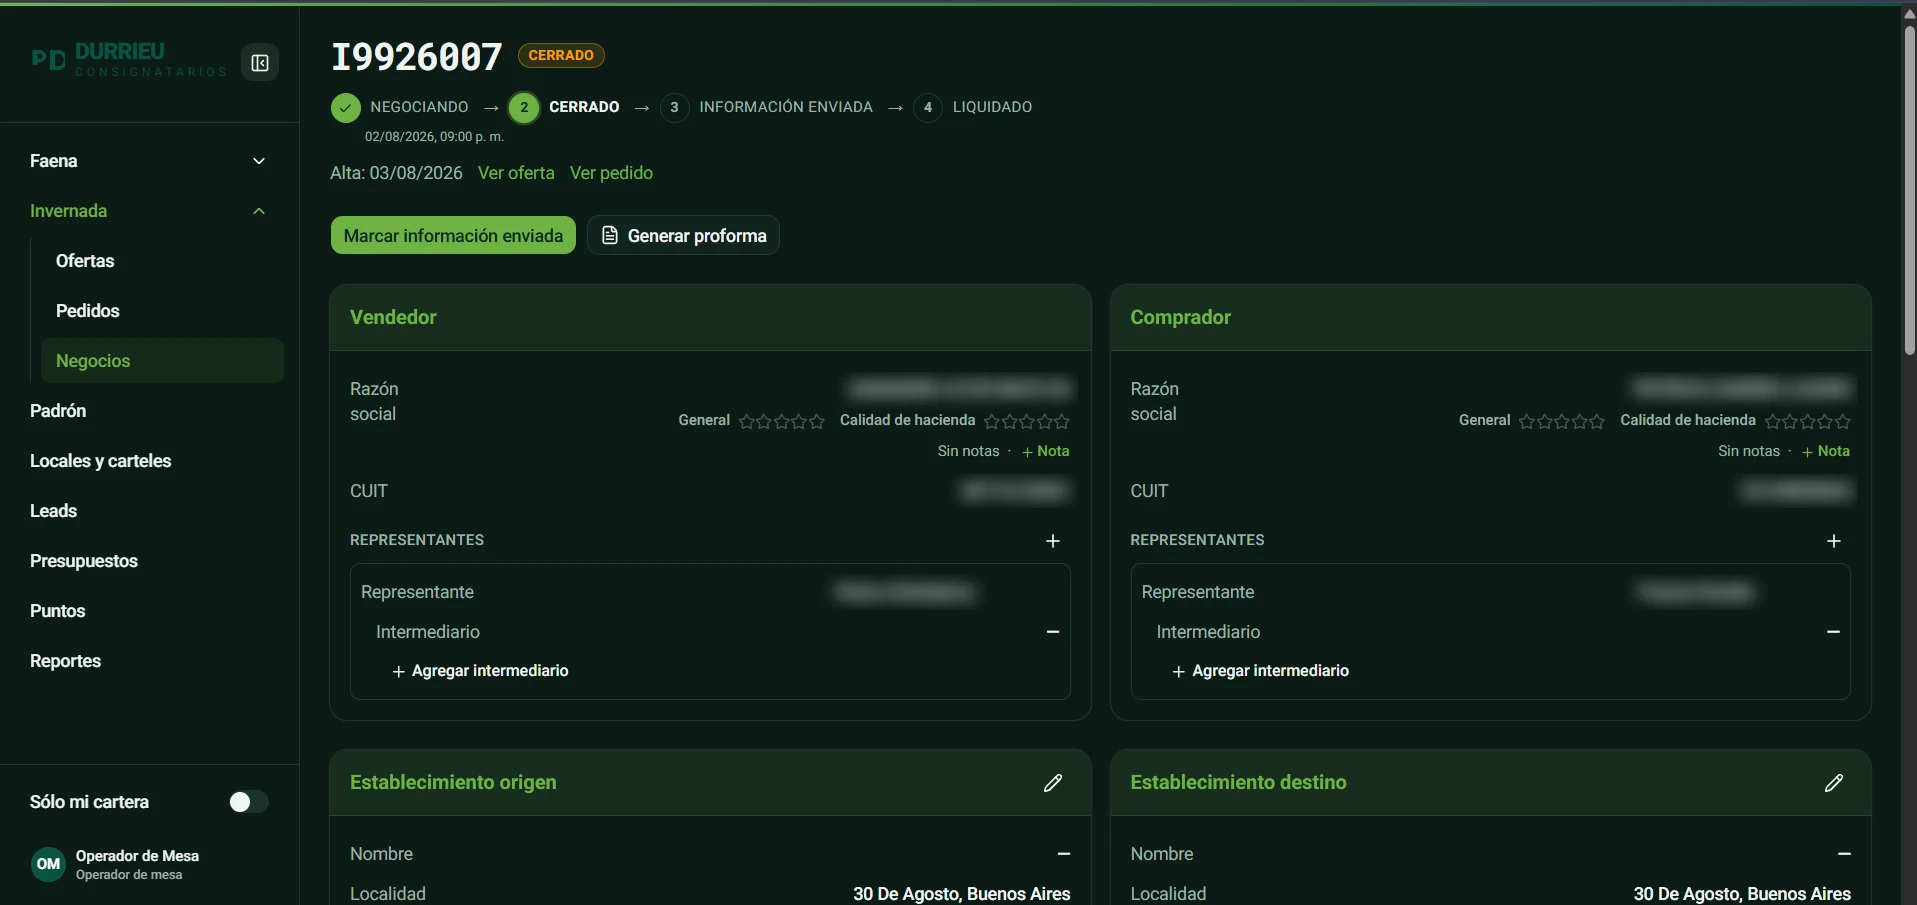
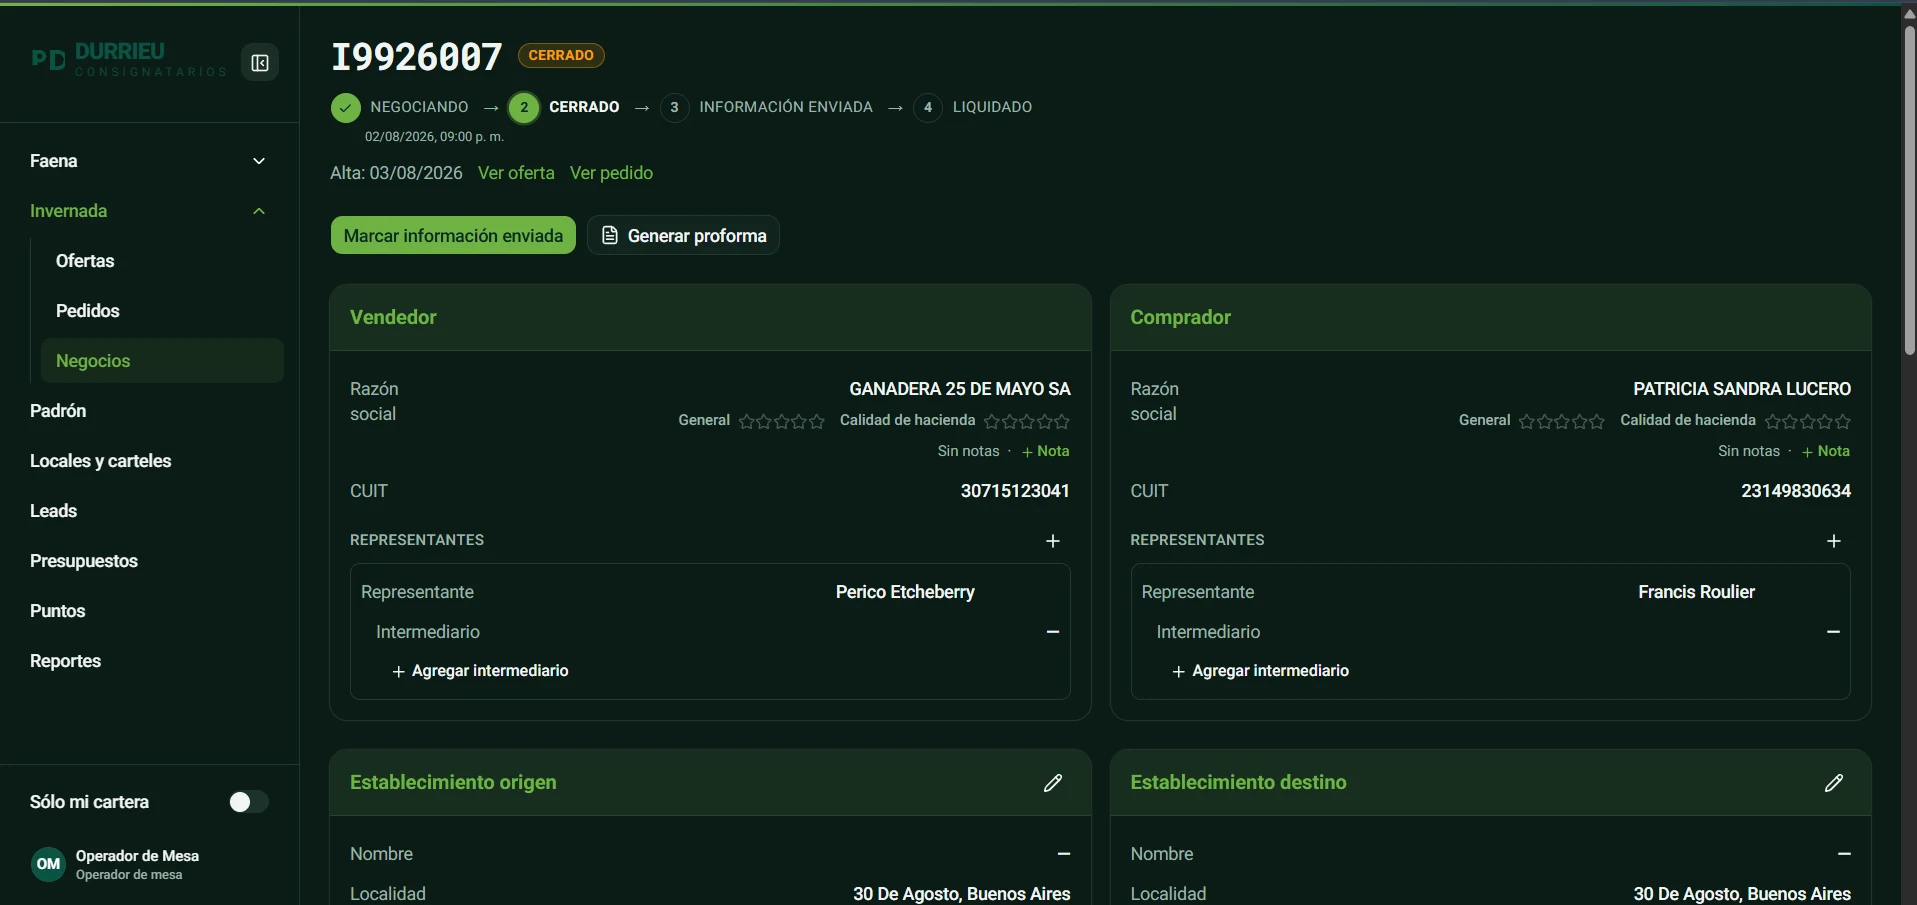
fix: capturas de Durrieu sin difuminar y sin notas de autoría
Los datos de invernada son de prueba: las capturas van completas. Un proyecto
hecho en equipo es de todo el equipo, así que la galería ya no reparte
autoría pantalla por pantalla; Durrieu sólo aclara que el bot no tiene
pantallas.

diff --git a/src/content/projects/durrieu.ts b/src/content/projects/durrieu.ts
@@ -14,7 +14,7 @@ export const durrieu: Project = {
   status: "pilot",
   stack: ["Next.js", "React", "FastAPI", "PostgreSQL", "Telegram", "WhatsApp"],
   links: {},
-  // Datos de demo, salvo en las dos de invernada: ahí los nombres, los CUIT y los representantes van difuminados.
+  // Todos los datos son de prueba (confirmado por Guido el 2026-10-22).
   shots: [
     {
       src: "/projects/durrieu/negocios-faena.webp",
@@ -41,8 +41,8 @@ export const durrieu: Project = {
       width: 1917,
       height: 905,
       alt: {
-        es: "Listado de negocios de invernada entre un vendedor y un comprador, con estado, sanidad y fecha de alta. Los nombres de las partes están difuminados.",
-        en: "Feeder-cattle deals between a seller and a buyer, with status, health certificate and date. The parties' names are blurred.",
+        es: "Listado de negocios de invernada entre un vendedor y un comprador, con estado, sanidad y fecha de alta.",
+        en: "Feeder-cattle deals between a seller and a buyer, with status, health certificate and date.",
       },
       caption: { es: "Negocios de invernada", en: "Feeder-cattle deals" },
     },
@@ -51,8 +51,8 @@ export const durrieu: Project = {
       width: 1917,
       height: 905,
       alt: {
-        es: "Detalle de un negocio de invernada: etapas, vendedor y comprador con sus representantes, y establecimientos de origen y destino. Los datos de las partes están difuminados.",
-        en: "A feeder-cattle deal in detail: stages, seller and buyer with their agents, and origin and destination farms. The parties' details are blurred.",
+        es: "Detalle de un negocio de invernada: etapas, vendedor y comprador con su CUIT y sus representantes, y establecimientos de origen y destino.",
+        en: "A feeder-cattle deal in detail: stages, seller and buyer with their tax IDs and agents, and origin and destination farms.",
       },
       caption: { es: "Detalle de un negocio de invernada", en: "A feeder-cattle deal" },
     },
@@ -88,8 +88,7 @@ export const durrieu: Project = {
         "La plataforma está en producción y el cliente la usa en una etapa piloto. El bot es casi íntegramente mío (el 97 % de su código actual), y al backend y a la web les sumé la vinculación de cuentas de chat, el módulo de notificaciones, la ficha pública de lotes y mejoras en los flujos de faena e invernada.",
         "Cada cambio pasa por integración continua con pruebas del backend, del bot (incluida una de punta a punta contra el backend real) y de la web.",
       ],
-      shotsNote:
-        "Pantallas de la plataforma web, que hizo un equipo de cuatro: lo que hice yo está en “Mi rol” y “Resultado”. El bot no tiene pantallas propias: funciona dentro de Telegram y WhatsApp.",
+      shotsNote: "Pantallas de la plataforma web. El bot no aparece porque no tiene pantallas propias: funciona dentro de Telegram y WhatsApp.",
     },
     en: {
       title: "Durrieu Consignatarios",
@@ -111,8 +110,7 @@ export const durrieu: Project = {
         "The platform is in production and the client is using it in a pilot stage. The bot is almost entirely my work (97% of its current code), and I added chat-account linking, the notifications module, the public lot page and improvements to the trading flows on the backend and the web app.",
         "Every change goes through CI with backend, bot (including an end-to-end test against the real backend) and web tests.",
       ],
-      shotsNote:
-        "Screens from the web platform, built by a team of four: my part is under “My role” and “Outcome”. The bot has no screens of its own: it runs inside Telegram and WhatsApp.",
+      shotsNote: "Screens from the web platform. The bot doesn't appear because it has no screens of its own: it runs inside Telegram and WhatsApp.",
     },
   },
 };

diff --git a/src/content/projects/plan-mi-casa.ts b/src/content/projects/plan-mi-casa.ts
@@ -87,8 +87,6 @@ export const planMiCasa: Project = {
         "Plan Mi Casa está en producción y es el sistema principal del cliente; el portal del suscriptor es, en su mayor parte, desarrollo mío. Tu Casa en Cuotas quedó como prueba de concepto lista para ofrecerse como SaaS.",
         "Las dos versiones muestran la evolución del mismo dominio: de una aplicación React 18 con MUI 6 a un monorepo con React 19, MUI 7 y funcionalidades compartidas entre aplicaciones.",
       ],
-      shotsNote:
-        "Pantallas de los paneles de administración, que se hicieron en equipo. De las que se ven, son módulos míos el dashboard de Plan Mi Casa y los planes de Tu Casa en Cuotas; el resto de mi parte está en “Mi rol” y “Decisiones”.",
     },
     en: {
       title: "Plan Mi Casa and Tu Casa en Cuotas",
@@ -109,8 +107,6 @@ export const planMiCasa: Project = {
         "Plan Mi Casa is in production and is the client's core system; most of the subscriber portal is my work. Tu Casa en Cuotas stands as a proof of concept, ready to be offered as SaaS.",
         "Together they show the same domain evolving: from a React 18 app with MUI 6 to a monorepo with React 19, MUI 7 and features shared across apps.",
       ],
-      shotsNote:
-        "Screens from the admin panels, which were built by a team. Of those shown, the Plan Mi Casa dashboard and the Tu Casa en Cuotas plans are modules I built; the rest of my part is under “My role” and “Decisions”.",
     },
   },
 };

diff --git a/src/content/projects/types.ts b/src/content/projects/types.ts
@@ -23,8 +23,9 @@ export type ProjectCopy = {
   /** Un párrafo por elemento. */
   result: readonly string[];
   /**
-   * Va arriba de la galería. En un proyecto de equipo, las capturas muestran el sistema completo y no
-   * sólo lo propio: la nota lo aclara, para no atribuirse pantallas que hicieron otros.
+   * Una aclaración arriba de la galería, si hace falta para entender las capturas (por ejemplo, una parte
+   * del proyecto que no tiene pantallas). Un proyecto de equipo es de todo el equipo: no se usa para
+   * repartir autoría pantalla por pantalla.
    */
   shotsNote?: string;
 };

diff --git a/PENDIENTES.md b/PENDIENTES.md
@@ -98,14 +98,12 @@ Fase de textos (plan, Fase 2), hecha el 2026-10-21:
 - [ ] **Revisar los siete casos**, en español y en inglés (`src/content/projects/*.ts`). Solo afirman lo que está en el inventario o lo que confirmaste
 - [x] **Capturas** (2026-10-22): 27 en `public/projects/<slug>/`, en WebP.
   - **Cómo se muestran:** la primera de cada caso es la portada de la tarjeta y del caso; las demás van en una galería al final, y cualquiera se amplía en un visor a pantalla completa (teclado, flechas, deslizar en celular, Escape).
-  - **Datos personales:** se revisaron una por una.
-    - Durrieu: en las dos de invernada se difuminaron nombres, CUIT y representantes.
-    - Templo: se difuminaron los links de la sala y el QR, porque el juego no lleva enlace público.
-    - Mecánica Dealbera, Plan Mi Casa y Tu Casa en Cuotas: tienen datos de prueba.
+  - **Datos personales:** se revisaron una por una. Todas usan datos de prueba (confirmado el 2026-10-22). Lo único difuminado son los links de la sala y el QR del Templo, porque el juego no lleva enlace público.
   - **Artefactos borrados:** el botón "N" de Next en desarrollo (Durrieu), el recuadro "Debug Info" (Tu Casa en Cuotas) y la marca "Activar Windows" (Grupo Oeste).
-  - **Proyectos de equipo:** en Durrieu y Plan Mi Casa, una nota arriba de la galería aclara que las pantallas son del sistema completo y dice cuáles son tuyas.
+  - **Proyectos de equipo:** un proyecto hecho en equipo es de todo el equipo (tu criterio, 2026-10-22). Las capturas no llevan notas que repartan autoría; lo tuyo lo cuenta "Mi rol". Durrieu sólo aclara que el bot no tiene pantallas.
   - **Originales:** siguen intactos en `~/Proyectos/capturas-portfolio/`.
 - [ ] Capturas de ESConecta (hoy usa la portada generada)
+- [ ] Capturas de los portales del suscriptor de Plan Mi Casa y de Tu Casa en Cuotas: las tenés vos
 - [x] Qué hacer con `public/legacy/`: se reutiliza la captura de Grupo Oeste Seguros si sigue siendo representativa; el resto se borra. Carpeta borrada antes del lanzamiento. La captura de 2024 quedó fuera del repo, en `~/Proyectos/capturas-portfolio/grupo-oeste-seguros-2024.png`, esperando tu confirmación; lo demás se recupera del historial (`git show 342e2e9:public/legacy/<ruta>`)
 - [ ] `global-not-found` es una opción **experimental** de Next. Está fijada en 16.4.2; si se actualiza Next, revisar que el 404 siga funcionando
 - [x] **Next 16.4.0 → 16.4.2 por seguridad** (2026-10-22). `npm audit` marcaba en producción:

diff --git a/src/content/projects/README.md b/src/content/projects/README.md
@@ -15,8 +15,8 @@ página (tarjeta, página del caso, imagen para compartir, sitemap) sale solo.
    `alt` y el `caption` en los dos idiomas. La primera es la portada de la
    tarjeta y del caso; las demás van en la galería del final, y todas se pueden
    ampliar. Sin capturas se usa una portada generada.
-4. En un proyecto de equipo, completá `shotsNote` en `copy`: aclara arriba de la
-   galería que las pantallas son del sistema completo y no sólo tuyas.
+4. Si las capturas necesitan una aclaración (por ejemplo, una parte del
+   proyecto que no tiene pantallas), va en `shotsNote`, dentro de `copy`.
 
 Un proyecto sin `links.repo` se muestra como privado, y no hace falta aclarar
 nada más.
